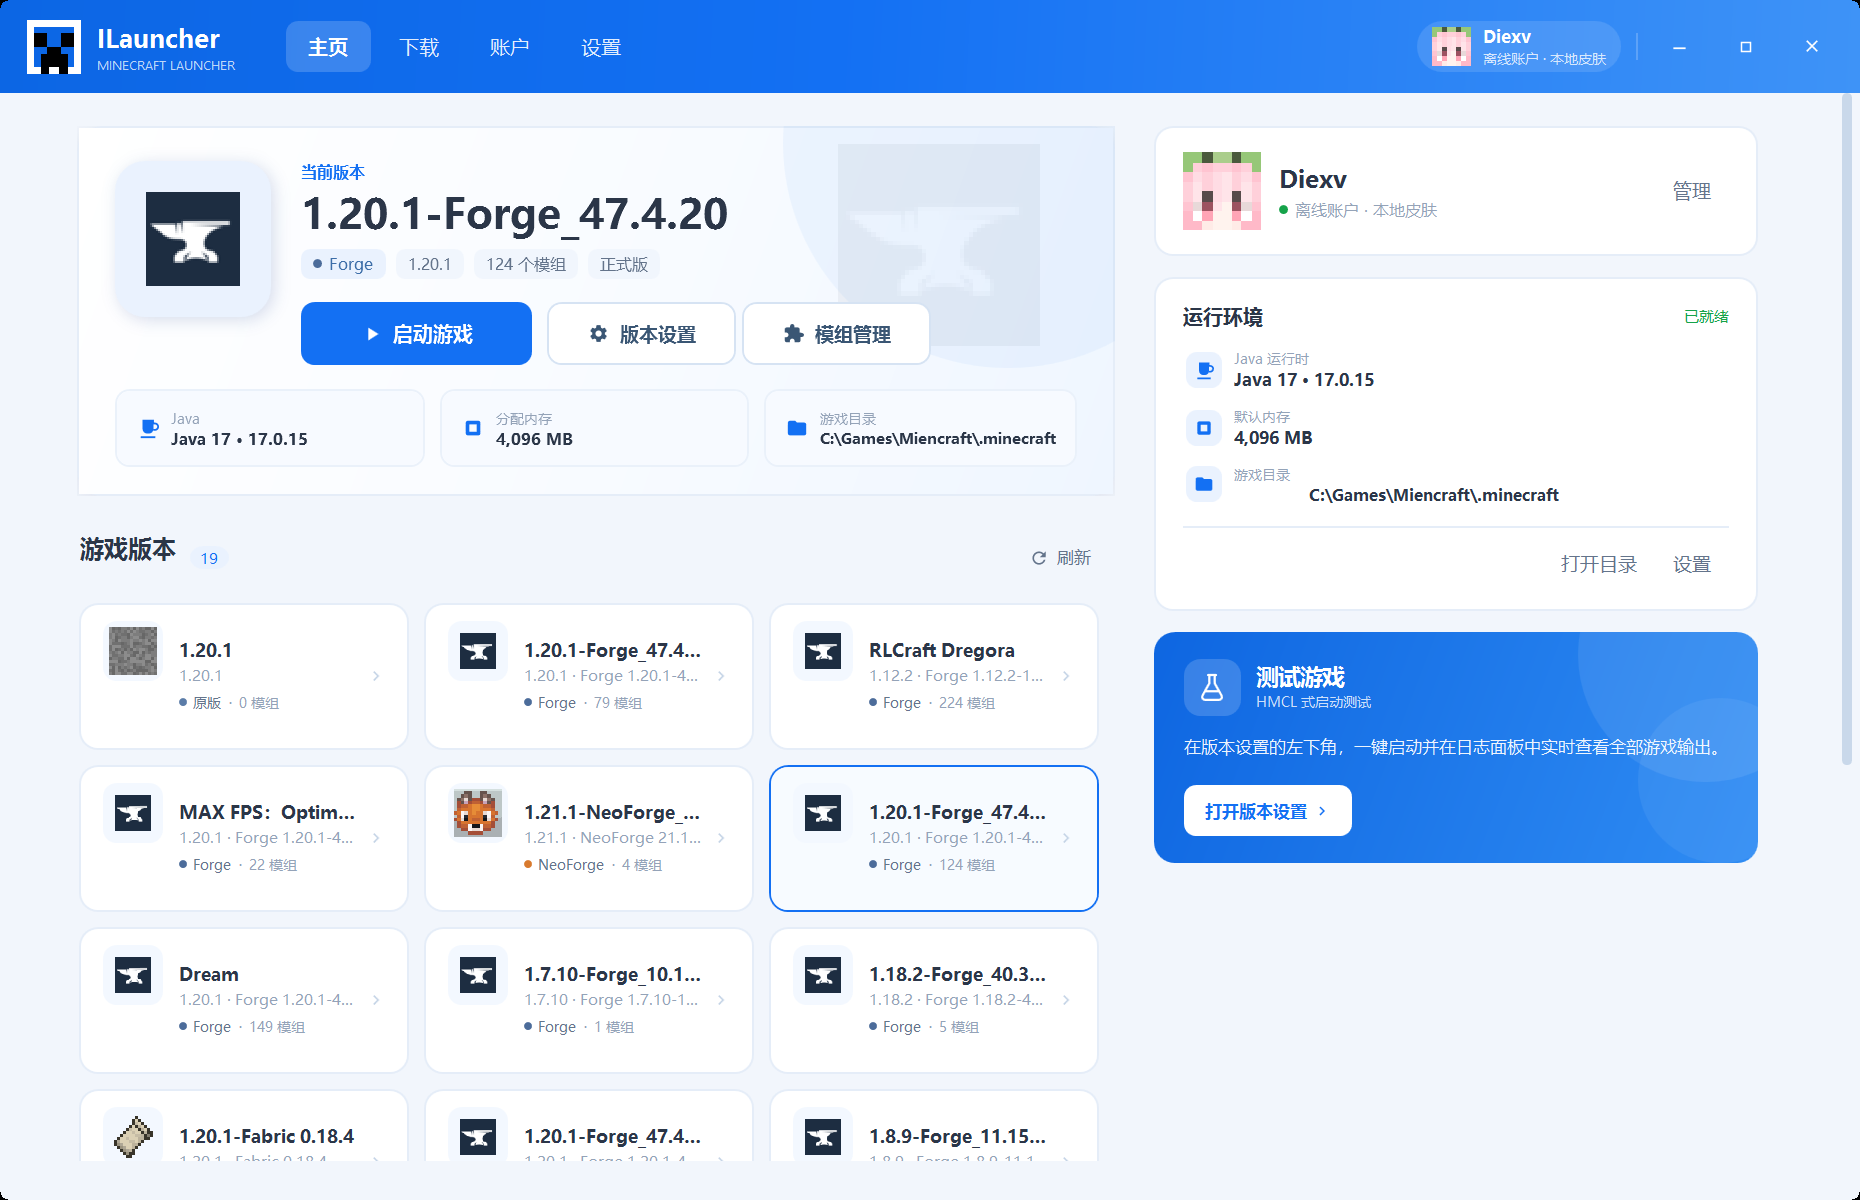
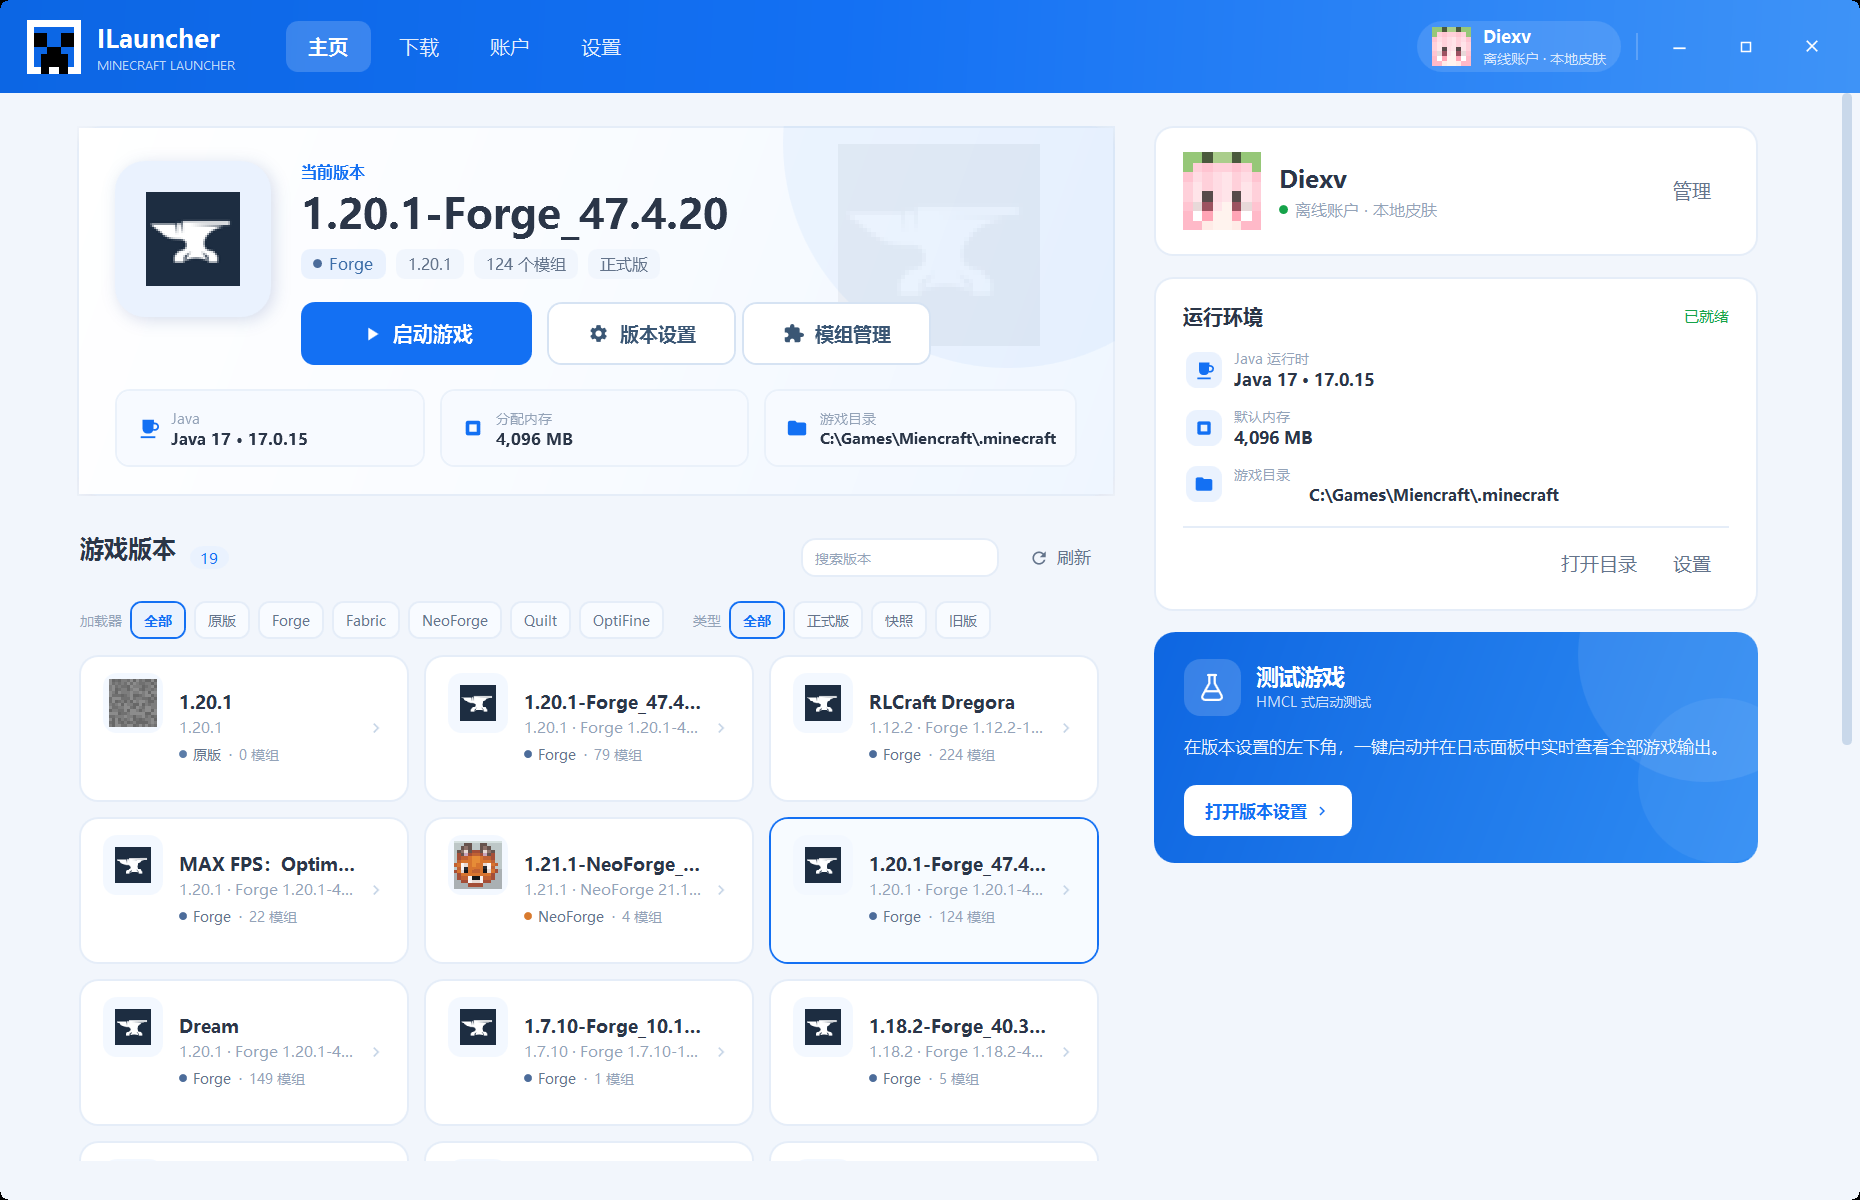
Add home version list filters

diff --git a/src/ILauncher/Views/HomeView.xaml b/src/ILauncher/Views/HomeView.xaml
@@ -50,6 +50,41 @@
                 </Setter.Value>
             </Setter>
         </Style>
+        <Style x:Key="HomeFilterChip" TargetType="Button">
+            <Setter Property="Height" Value="25" />
+            <Setter Property="Padding" Value="8,0" />
+            <Setter Property="Margin" Value="0,0,5,0" />
+            <Setter Property="Background" Value="#FFF8FBFF" />
+            <Setter Property="BorderBrush" Value="{StaticResource BrushBorder}" />
+            <Setter Property="Foreground" Value="{StaticResource BrushTextSecondary}" />
+            <Setter Property="FontSize" Value="9" />
+            <Setter Property="Cursor" Value="Hand" />
+            <Setter Property="Template">
+                <Setter.Value>
+                    <ControlTemplate TargetType="Button">
+                        <Border x:Name="Bd" Background="{TemplateBinding Background}" BorderBrush="{TemplateBinding BorderBrush}"
+                                BorderThickness="1" CornerRadius="7" Padding="{TemplateBinding Padding}">
+                            <ContentPresenter VerticalAlignment="Center" />
+                        </Border>
+                        <ControlTemplate.Triggers>
+                            <Trigger Property="IsMouseOver" Value="True">
+                                <Setter TargetName="Bd" Property="Background" Value="#FFF1F7FF" />
+                                <Setter TargetName="Bd" Property="BorderBrush" Value="#FFB9D5F7" />
+                            </Trigger>
+                        </ControlTemplate.Triggers>
+                    </ControlTemplate>
+                </Setter.Value>
+            </Setter>
+            <Style.Triggers>
+                <DataTrigger Binding="{Binding Tag, RelativeSource={RelativeSource Self}}" Value="True">
+                    <Setter Property="Background" Value="{StaticResource BrushAccentSoft}" />
+                    <Setter Property="BorderBrush" Value="{StaticResource BrushAccent}" />
+                    <Setter Property="Foreground" Value="{StaticResource BrushAccent}" />
+                    <Setter Property="FontWeight" Value="SemiBold" />
+                </DataTrigger>
+            </Style.Triggers>
+        </Style>
+
     </UserControl.Resources>
 
     <Grid>
@@ -212,18 +247,76 @@
                         <StackPanel Orientation="Horizontal">
                             <TextBlock Text="游戏版本" Style="{StaticResource TextSection}" FontSize="16" />
                             <Border Background="#FFEAF2FE" CornerRadius="9" Padding="7,1" Margin="9,1,0,0" VerticalAlignment="Center">
-                                <TextBlock Text="{Binding InstanceCount}" FontSize="10" Foreground="{StaticResource BrushAccent}" />
+                                <TextBlock Text="{Binding InstanceCountText}" FontSize="10" Foreground="{StaticResource BrushAccent}" />
                             </Border>
                         </StackPanel>
-                        <Button Style="{StaticResource GhostButton}" HorizontalAlignment="Right" Command="{Binding RefreshCommand}" ToolTip="重新扫描版本">
-                            <StackPanel Orientation="Horizontal">
-                                <controls:Icon Data="{StaticResource IconRefresh}" Fill="{StaticResource BrushTextSecondary}" Width="13" Height="13" />
-                                <TextBlock Text="刷新" Margin="5,0,0,0" FontSize="11.5" />
-                            </StackPanel>
-                        </Button>
+                        <StackPanel Orientation="Horizontal" HorizontalAlignment="Right" VerticalAlignment="Center">
+                            <Grid Width="132" Height="26" Margin="0,0,8,0">
+                                <TextBox Style="{StaticResource InputTextBox}" Height="26" Padding="8,0"
+                                         VerticalContentAlignment="Center"
+                                         Text="{Binding InstanceSearch, UpdateSourceTrigger=PropertyChanged}"
+                                         ToolTip="搜索版本名称" AutomationProperties.Name="搜索本地版本" />
+                                <TextBlock Text="搜索版本" FontSize="9" Foreground="{StaticResource BrushTextMuted}"
+                                           Margin="9,0,0,0" VerticalAlignment="Center" IsHitTestVisible="False"
+                                           Visibility="{Binding InstanceSearch, Converter={StaticResource EmptyToVisibility}}" />
+                            </Grid>
+                            <Button Style="{StaticResource GhostButton}" Command="{Binding RefreshCommand}" ToolTip="重新扫描版本">
+                                <StackPanel Orientation="Horizontal">
+                                    <controls:Icon Data="{StaticResource IconRefresh}" Fill="{StaticResource BrushTextSecondary}" Width="13" Height="13" />
+                                    <TextBlock Text="刷新" Margin="5,0,0,0" FontSize="11.5" />
+                                </StackPanel>
+                            </Button>
+                        </StackPanel>
                     </Grid>
 
-                    <ListBox x:Name="VersionList" ItemsSource="{Binding Instances}" SelectedItem="{Binding SelectedInstance, Mode=TwoWay}"
+                    <WrapPanel Margin="2,0,4,9">
+                        <StackPanel Orientation="Horizontal" Margin="0,0,14,0" VerticalAlignment="Center">
+                            <TextBlock Text="加载器" FontSize="9" Foreground="{StaticResource BrushTextMuted}"
+                                       VerticalAlignment="Center" Margin="0,0,5,0" />
+                            <ItemsControl ItemsSource="{Binding HomeLoaderFilters}" VerticalAlignment="Center">
+                                <ItemsControl.ItemsPanel>
+                                    <ItemsPanelTemplate>
+                                        <StackPanel Orientation="Horizontal" />
+                                    </ItemsPanelTemplate>
+                                </ItemsControl.ItemsPanel>
+                                <ItemsControl.ItemTemplate>
+                                    <DataTemplate>
+                                        <Button Style="{StaticResource HomeFilterChip}" Content="{Binding Title}"
+                                                Tag="{Binding IsSelected}"
+                                                Command="{Binding DataContext.SetHomeLoaderFilterCommand, RelativeSource={RelativeSource AncestorType=ItemsControl}}"
+                                                CommandParameter="{Binding}" />
+                                    </DataTemplate>
+                                </ItemsControl.ItemTemplate>
+                            </ItemsControl>
+                        </StackPanel>
+
+                        <StackPanel Orientation="Horizontal" Margin="0,0,12,0" VerticalAlignment="Center">
+                            <TextBlock Text="类型" FontSize="9" Foreground="{StaticResource BrushTextMuted}"
+                                       VerticalAlignment="Center" Margin="0,0,5,0" />
+                            <ItemsControl ItemsSource="{Binding HomeTypeFilters}" VerticalAlignment="Center">
+                                <ItemsControl.ItemsPanel>
+                                    <ItemsPanelTemplate>
+                                        <StackPanel Orientation="Horizontal" />
+                                    </ItemsPanelTemplate>
+                                </ItemsControl.ItemsPanel>
+                                <ItemsControl.ItemTemplate>
+                                    <DataTemplate>
+                                        <Button Style="{StaticResource HomeFilterChip}" Content="{Binding Title}"
+                                                Tag="{Binding IsSelected}"
+                                                Command="{Binding DataContext.SetHomeTypeFilterCommand, RelativeSource={RelativeSource AncestorType=ItemsControl}}"
+                                                CommandParameter="{Binding}" />
+                                    </DataTemplate>
+                                </ItemsControl.ItemTemplate>
+                            </ItemsControl>
+                        </StackPanel>
+
+                    </WrapPanel>
+
+                    <TextBlock Text="没有符合筛选条件的版本" FontSize="11" Foreground="{StaticResource BrushTextMuted}"
+                               Margin="4,7,0,4"
+                               Visibility="{Binding IsHomeFilterEmpty, Converter={StaticResource BoolToVisibility}}" />
+
+                    <ListBox x:Name="VersionList" ItemsSource="{Binding FilteredInstances}" SelectedItem="{Binding SelectedInstance, Mode=TwoWay}"
                              Style="{StaticResource CleanListBox}" ScrollViewer.VerticalScrollBarVisibility="Disabled"
                              ItemContainerStyle="{StaticResource VersionCardItem}" MouseDoubleClick="VersionList_MouseDoubleClick"
                              HorizontalContentAlignment="Left">

diff --git a/src/ILauncher/ViewModels/MainViewModel.cs b/src/ILauncher/ViewModels/MainViewModel.cs
@@ -18,6 +18,7 @@ public sealed class MainViewModel : ObservableObject
     private readonly DispatcherTimer _toastTimer;
     private object? _currentPage;
     private GameInstance? _selectedInstance;
+    private string _instanceSearch = "";
     private string _rootPath = "";
     private string _selectedJavaText = "检测中…";
     private bool _isBusy;
@@ -73,7 +74,27 @@ public sealed class MainViewModel : ObservableObject
         };
 
         Instances = new ObservableCollection<GameInstance>();
+        FilteredInstances = new ObservableCollection<GameInstance>();
         JavaRuntimes = new ObservableCollection<JavaInfo>();
+        HomeLoaderFilters = new ObservableCollection<DownloadFilterOption>
+        {
+            new() { Key = "all", Title = "全部", IsSelected = true },
+            new() { Key = "vanilla", Title = "原版" },
+            new() { Key = "forge", Title = "Forge" },
+            new() { Key = "fabric", Title = "Fabric" },
+            new() { Key = "neoforge", Title = "NeoForge" },
+            new() { Key = "quilt", Title = "Quilt" },
+            new() { Key = "optifine", Title = "OptiFine" }
+        };
+        HomeTypeFilters = new ObservableCollection<DownloadFilterOption>
+        {
+            new() { Key = "all", Title = "全部", IsSelected = true },
+            new() { Key = "release", Title = "正式版" },
+            new() { Key = "snapshot", Title = "快照" },
+            new() { Key = "old", Title = "旧版" }
+        };
+        SetHomeLoaderFilterCommand = new RelayCommand(parameter => SelectHomeLoader(parameter));
+        SetHomeTypeFilterCommand = new RelayCommand(parameter => SelectHomeType(parameter));
 
         _currentPage = this;
         GoHomeCommand = new RelayCommand(GoHome);
@@ -136,6 +157,11 @@ public sealed class MainViewModel : ObservableObject
     public LaunchLogViewModel LaunchLog { get; }
 
     public ObservableCollection<GameInstance> Instances { get; }
+    public ObservableCollection<GameInstance> FilteredInstances { get; }
+    public ObservableCollection<DownloadFilterOption> HomeLoaderFilters { get; }
+    public ObservableCollection<DownloadFilterOption> HomeTypeFilters { get; }
+    public RelayCommand SetHomeLoaderFilterCommand { get; }
+    public RelayCommand SetHomeTypeFilterCommand { get; }
     public ObservableCollection<JavaInfo> JavaRuntimes { get; }
 
     public object? CurrentPage
@@ -187,6 +213,26 @@ public sealed class MainViewModel : ObservableObject
     public string SelectedTypeText => SelectedInstance?.TypeLabel ?? "";
 
     public int InstanceCount => Instances.Count;
+    public int FilteredInstanceCount => FilteredInstances.Count;
+    public string InstanceCountText => FilteredInstanceCount == InstanceCount
+        ? InstanceCount.ToString()
+        : $"{FilteredInstanceCount} / {InstanceCount}";
+    public bool IsHomeFilterEmpty => Instances.Count > 0 && FilteredInstances.Count == 0;
+
+    public string InstanceSearch
+    {
+        get => _instanceSearch;
+        set
+        {
+            if (SetProperty(ref _instanceSearch, value))
+            {
+                ApplyInstanceFilter();
+            }
+        }
+    }
+
+    public DownloadFilterOption? SelectedHomeLoader => HomeLoaderFilters.FirstOrDefault(option => option.IsSelected);
+    public DownloadFilterOption? SelectedHomeType => HomeTypeFilters.FirstOrDefault(option => option.IsSelected);
 
     public bool IsHome
     {
@@ -381,14 +427,119 @@ public sealed class MainViewModel : ObservableObject
 
         var selected = Instances.FirstOrDefault(i => i.Id == selectedId) ?? Instances.FirstOrDefault();
         SelectedInstance = selected;
+        ApplyInstanceFilter();
         _suppressSelectionSave = false;
 
         OnPropertyChanged(nameof(InstanceCount));
+        OnPropertyChanged(nameof(FilteredInstanceCount));
+        OnPropertyChanged(nameof(InstanceCountText));
         OnPropertyChanged(nameof(ShowEmptyState));
+        OnPropertyChanged(nameof(IsHomeFilterEmpty));
         if (instances.Count == 0)
         {
             Toast("该目录下没有可用的游戏版本。", true);
         }
+    }
+
+    private void ApplyInstanceFilter()
+    {
+        var loaderKey = SelectedHomeLoader?.Key ?? "all";
+        var typeKey = SelectedHomeType?.Key ?? "all";
+        var search = InstanceSearch.Trim();
+        var previous = SelectedInstance;
+
+        FilteredInstances.Clear();
+        foreach (var instance in Instances)
+        {
+            if (!MatchesLoaderFilter(instance, loaderKey) || !MatchesTypeFilter(instance, typeKey))
+            {
+                continue;
+            }
+
+            if (search.Length > 0 &&
+                !instance.Id.Contains(search, StringComparison.OrdinalIgnoreCase) &&
+                !instance.Subtitle.Contains(search, StringComparison.OrdinalIgnoreCase))
+            {
+                continue;
+            }
+
+            FilteredInstances.Add(instance);
+        }
+
+        OnPropertyChanged(nameof(FilteredInstanceCount));
+        OnPropertyChanged(nameof(InstanceCountText));
+        OnPropertyChanged(nameof(IsHomeFilterEmpty));
+
+        var next = previous != null && FilteredInstances.Contains(previous)
+            ? previous
+            : FilteredInstances.FirstOrDefault();
+        if (next != null && !ReferenceEquals(SelectedInstance, next))
+        {
+            _suppressSelectionSave = true;
+            SelectedInstance = next;
+            _suppressSelectionSave = false;
+        }
+    }
+
+    private static bool MatchesLoaderFilter(GameInstance instance, string key)
+    {
+        var loader = instance.Loader;
+        var isNeoForge = loader.Contains("NeoForge", StringComparison.OrdinalIgnoreCase);
+        var isForge = loader.Contains("Forge", StringComparison.OrdinalIgnoreCase) && !isNeoForge;
+        return key switch
+        {
+            "vanilla" => loader.Equals("原版", StringComparison.OrdinalIgnoreCase) ||
+                         loader.Equals("Vanilla", StringComparison.OrdinalIgnoreCase),
+            "neoforge" => isNeoForge,
+            "forge" => isForge,
+            "fabric" => loader.Contains("Fabric", StringComparison.OrdinalIgnoreCase),
+            "quilt" => loader.Contains("Quilt", StringComparison.OrdinalIgnoreCase),
+            "optifine" => loader.Contains("OptiFine", StringComparison.OrdinalIgnoreCase),
+            _ => true
+        };
+    }
+
+    private static bool MatchesTypeFilter(GameInstance instance, string key)
+        => key switch
+        {
+            "release" => string.Equals(instance.Type, "release", StringComparison.OrdinalIgnoreCase),
+            "snapshot" => string.Equals(instance.Type, "snapshot", StringComparison.OrdinalIgnoreCase),
+            "old" => instance.Type.StartsWith("old_", StringComparison.OrdinalIgnoreCase),
+            _ => true
+        };
+
+    private void SelectHomeLoader(object? parameter)
+    {
+        if (parameter is DownloadFilterOption option && SelectSingleFilter(HomeLoaderFilters, option))
+        {
+            OnPropertyChanged(nameof(SelectedHomeLoader));
+            ApplyInstanceFilter();
+        }
+    }
+
+    private void SelectHomeType(object? parameter)
+    {
+        if (parameter is DownloadFilterOption option && SelectSingleFilter(HomeTypeFilters, option))
+        {
+            OnPropertyChanged(nameof(SelectedHomeType));
+            ApplyInstanceFilter();
+        }
+    }
+
+    private static bool SelectSingleFilter(IEnumerable<DownloadFilterOption> options, DownloadFilterOption selected)
+    {
+        var changed = false;
+        foreach (var option in options)
+        {
+            var active = ReferenceEquals(option, selected);
+            if (option.IsSelected != active)
+            {
+                option.IsSelected = active;
+                changed = true;
+            }
+        }
+
+        return changed;
     }
 
     public void OpenInstance(GameInstance instance, InstanceSection section = InstanceSection.Overview)

diff --git a/README.md b/README.md
@@ -85,7 +85,7 @@ $env:MS_CLIENT_ID = "你的 Azure Application (client) ID"
 ### 版本图标
 
 - 在版本概览的「快捷操作 → 更换图标」中选择 PNG，图标保存到 `%APPDATA%\ILauncher\icons\<版本>.png`。
-- 版本卡片、主页大卡、版本页侧栏、概览都会使用自定义图标；未设置时按加载器自动使用 **Fabric / Quilt / Forge / NeoForge / OptiFine** 官方徽标，原版使用方块图标。徽标来源见 `Assets/Loaders/README.md`。
+- 主页版本列表支持按 **加载器（原版/Forge/Fabric/NeoForge/Quilt/OptiFine）**、**正式版/快照/旧版** 和版本名筛选，数量会显示为“筛选结果 / 总数”。\n- 版本卡片、主页大卡、版本页侧栏、概览都会使用自定义图标；未设置时按加载器自动使用 **Fabric / Quilt / Forge / NeoForge / OptiFine** 官方徽标，原版使用方块图标。徽标来源见 `Assets/Loaders/README.md`。
 - 也支持版本目录里的 `icon.png` 作为图标。
 - 模组图标从 jar 内部读取（Fabric/Quilt/Forge/NeoForge 元数据），资源包读取 `pack.png`，存档读取 `icon.png`。
 
@@ -267,6 +267,7 @@ docs/screenshots/            README 截图
 - 模组安装不会自动解析并安装前置依赖；只安装主文件。
 - Forge/NeoForge 走官方安装器，不保证所有版本都能在无界面模式下成功。
 - 启动器自身更新、主题/语言切换等非 Minecraft 功能未实现。
+
 
 
 
